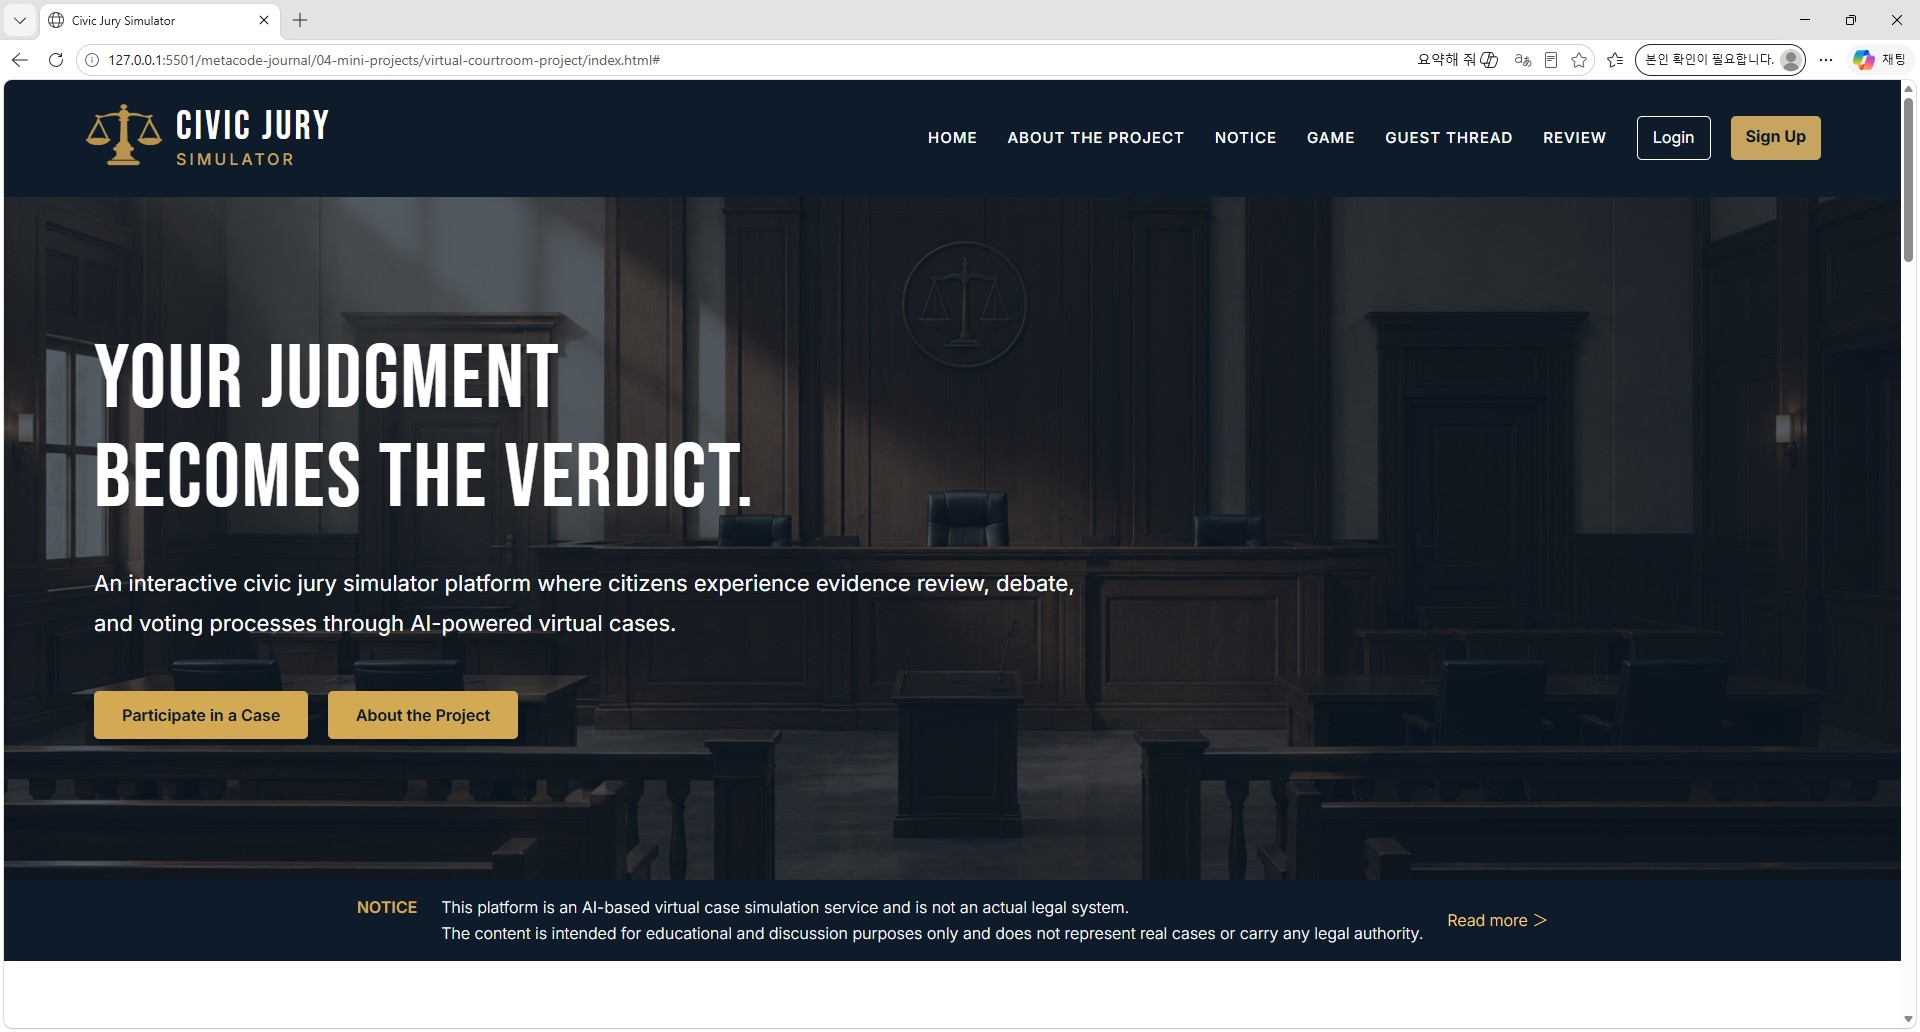
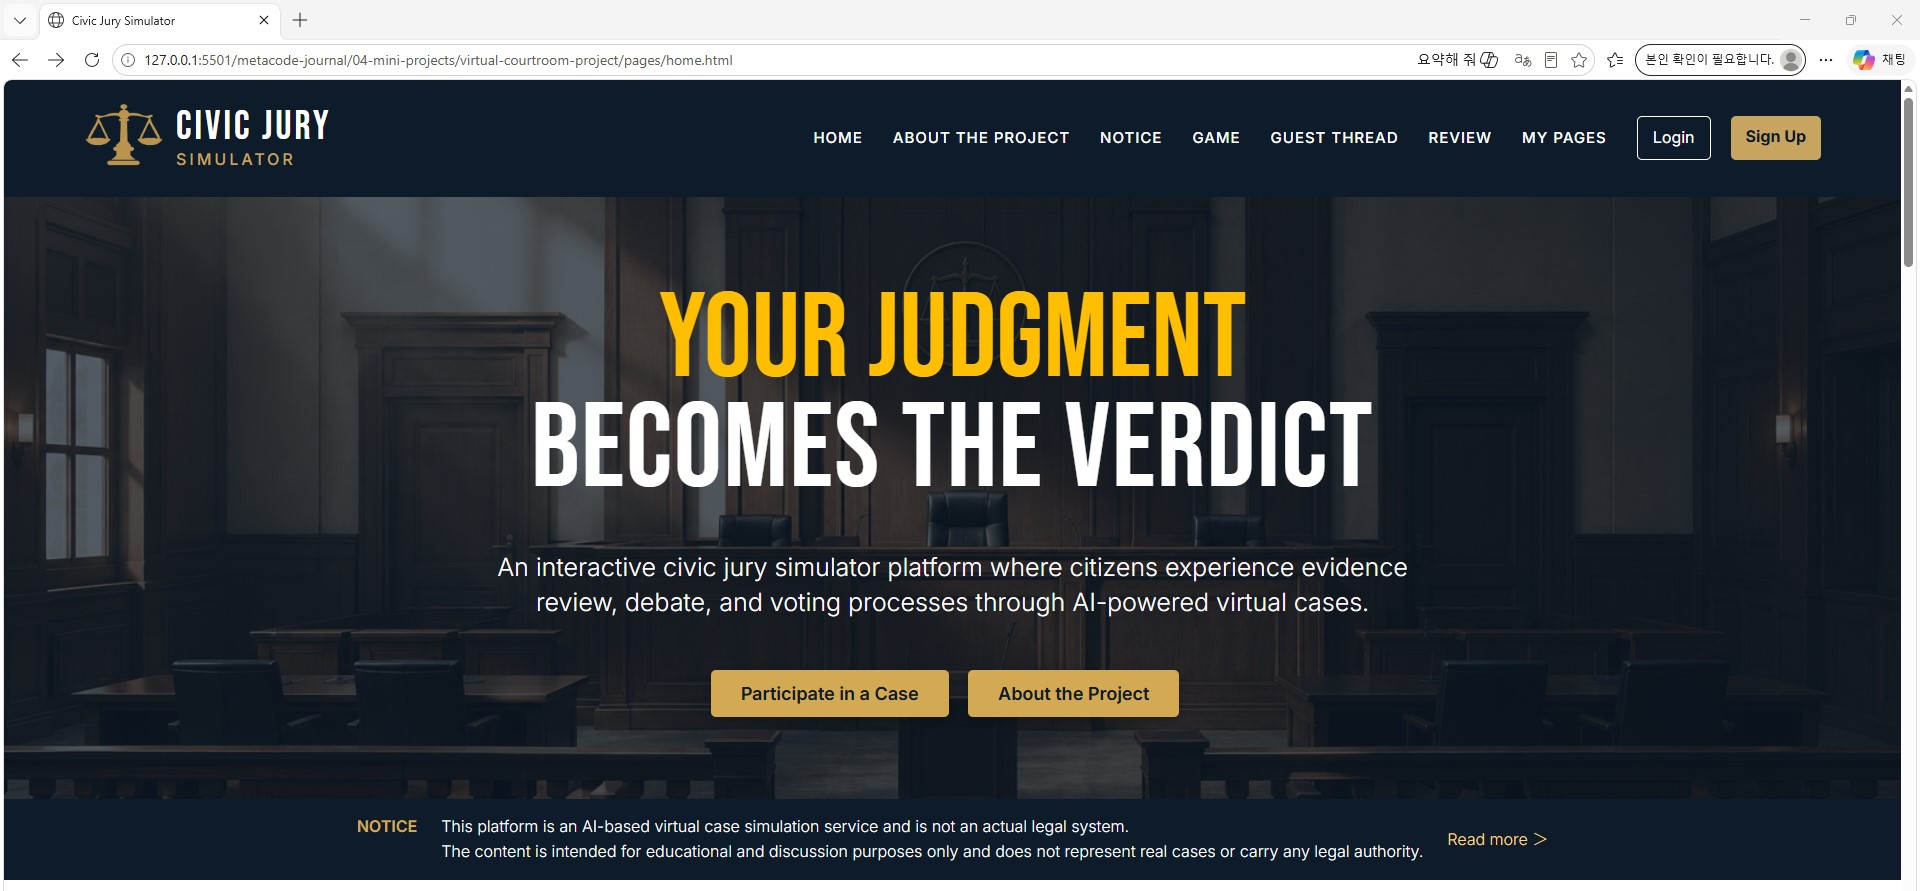
20260523
20260523

diff --git a/04-mini-projects/virtual-courtroom-project/pages/about-the-project.html b/04-mini-projects/virtual-courtroom-project/pages/about-the-project.html
@@ -40,7 +40,7 @@
             <ul class="menu">
                 <li><a href="../pages/home.html">Home</a></li>
                 <li><a href="../pages/about-the-project.html">About the Project</a></li>
-                <li><a href="#">Notice</a></li>
+                <li><a href="../pages/notice.html">Notice</a></li>
                 <li><a href="#">Game</a></li>
                 <li><a href="#">Guest Thread</a></li>
                 <li class="menu-left"><a href="#">Review</a></li>
@@ -66,7 +66,7 @@
             <br>
 
             <h1>Your choices can change</h1>
-            <h2>the outcome of a case.</h2>
+            <h2>the outcome of a case</h2>
 
             <p>
                 At the many crossroads of life, what would you do if you were suddenly faced with a criminal accusation or legal dispute?<br>
@@ -123,15 +123,13 @@
             <br>
             <h3>Identity of the Website</h3>
             <p>
-                This website is an interactive experiential platform created as both a research archive and a digital exhibition space. At the same time, it functions as a personal brand portfolio website.<br><br>
-                The platform is designed around two types of users: operators and guests.<br><br>
-                When visitors first enter the website, I wanted them to feel: “This looks interesting.” / “I want to participate.” / “This could become a meaningful experience.”<br><br>
-                For this reason, I aimed to create a website that combines immersion, professionalism, and interactive storytelling.<br><br>
+                This website is an interactive experiential platform created as both a research archive and a digital exhibition space. At the same time, it functions as a personal brand portfolio website. The platform is designed around two types of users: operators and guests.<br><br>
+                When visitors first enter the website, I wanted them to feel: “This looks interesting.” / “I want to participate.” / “This could become a meaningful experience.” For this reason, I aimed to create a website that combines immersion, professionalism, and interactive storytelling.<br><br>
                 I wanted the rules of the game and the platform’s high degree of freedom to become attractive experiences for users visiting the website. Through participation-driven systems and interactive structures, I hoped to encourage users to remain engaged for longer periods of time while increasing their curiosity and anticipation regarding the unfolding events within the simulator.
             </p>
         </div>
 
 
-        
+
 </body>
 </html>

diff --git a/04-mini-projects/virtual-courtroom-project/pages/home.html b/04-mini-projects/virtual-courtroom-project/pages/home.html
@@ -40,7 +40,7 @@
             <ul class="menu">
                 <li><a href="../pages/home.html">Home</a></li>
                 <li><a href="../pages/about-the-project.html">About the Project</a></li>
-                <li><a href="#">Notice</a></li>
+                <li><a href="../pages/notice.html">Notice</a></li>
                 <li><a href="#">Game</a></li>
                 <li><a href="#">Guest Thread</a></li>
                 <li class="menu-left"><a href="#">Review</a></li>
@@ -60,13 +60,13 @@
 
     <section id="home" class="hero">
         <div class="hero-content">
-            <h2>Your judgment<br>
-                becomes the verdict.
-            </h2>
+            <h1>Your judgment</h1>
+            <h2>becomes the verdict</h2>
+            
 
             <p>
-                An interactive civic jury simulator platform where citizens experience evidence review, debate,<br>
-                and voting processes through AI-powered virtual cases.
+                An interactive civic jury simulator platform where citizens experience evidence<br>
+                review, debate, and voting processes through AI-powered virtual cases.
             </p>
 
             <a href="../pages/game-case.html" class="button-case">Participate in a Case</a>
@@ -83,7 +83,7 @@
             <p class="nt1">NOTICE</p>
             <p class="nt2">This platform is an AI-based virtual case simulation service and is not an actual legal system.<br>
                 The content is intended for educational and discussion purposes only and does not represent real cases or carry any legal authority.</p>
-            <a href="" class="nt3">Read more ＞</a>
+            <a href="../pages/notice.html" class="nt3">Read more ＞</a>
         </div>
     </section>
     
@@ -585,7 +585,7 @@
 
                 <div>
                     <h4>Services</h4>
-                    <p>About the Project</p>
+                    <p><a href="../pages/about-the-project.html">About the Project</a></p>
                     <p>How to Use</p>
                     <p>FAQ</p>
                 </div>
@@ -599,7 +599,7 @@
 
                 <div>
                     <h4>Support</h4>
-                    <p>Announcements</p>
+                    <p><a href="../pages/notice.html">Announcements</a></p>
                     <p>Contact Us</p>
                     <p>Terms of Service</p>
                     <p>Privacy Policy</p>

diff --git a/04-mini-projects/virtual-courtroom-project/css/home.css b/04-mini-projects/virtual-courtroom-project/css/home.css
@@ -9,6 +9,7 @@
     margin:0;
     padding:0;
     box-sizing:border-box;
+    cursor:pointer;
 }
 
 
@@ -21,7 +22,7 @@ body {
     line-height:1.6;
     
     background:#ffffff;
-    color:#111111;
+    color:#111111;  
 }
 
 
@@ -195,13 +196,13 @@ text-transform:uppercase;
 
 .hero{
 white-space: nowrap;
-min-height: 700px;
-margin-top: 100px;
+min-height: 500px;
+margin-top: 110px;
 color: #ffffff;
 display: flex;
 flex-direction: column;
 justify-content: center;
-align-items: flex-start;
+align-items: center;
 text-align: left;
 padding: 90px;
 background:
@@ -214,7 +215,7 @@ background-attachment: fixed;
 }
 
 .hero-content{
-max-width:600px;
+text-align:center;
 }
 
 .hero img {
@@ -223,25 +224,35 @@ height: auto;
 margin-right: 12px;
 }
 
+.hero h1{
+font-family:'Bebas Neue', sans-serif;
+font-size:120px;
+color:#ffbf00;
+line-height:1;
+margin-bottom:-10px;
+font-weight:400;
+text-transform:uppercase;
+}
+
 .hero h2{
 font-family:'Bebas Neue', sans-serif;
-font-size:90px;
+font-size:120px;
 color:#ffffff;
-line-height:1.1;
+line-height:1;
 margin-bottom:30px;
-letter-spacing:2px;
+letter-spacing:1.5px;
 font-weight:400;
 text-transform:uppercase;
 }
 
 .hero p{
-margin-top:35px;
+margin-top:40px;
 margin-bottom:60px;
-font-size:22px;
+font-size:25px;
 color:#ffffff;
-line-height:1.8;
+line-height:1.4;
 font-family:'Inter', sans-serif;
-font-weight:400;
+font-weight:300;
 }
 
 
@@ -259,14 +270,13 @@ transform:translateY(-2px);
 .button-introduction{
 margin-top:20px;
 margin-right:15px;
-padding:14px 28px;
+padding:13px 30px;
 background:#d4a954;
 border:none;
 border-radius:5px;
 color:#0d1b2a;
-font-size:16px;
+font-size:18px;
 font-weight:600;
-cursor:pointer;
 text-decoration:none;
 transition:all 0.3s ease;
 box-shadow:0 4px 12px rgba(0,0,0,0.2);
@@ -1449,6 +1459,7 @@ font-weight:500;
     gap:100px;
     margin-top: 10px;
     margin-left: 70px;
+   
 }
 
 .footer-menu h4{
@@ -1457,11 +1468,14 @@ font-weight:500;
     letter-spacing:1.5px;
     font-weight:400;
     text-transform:uppercase;
+
 }
 
-.footer-menu p{
+.footer-menu p, .footer-menu a{
     margin-bottom:10px;
     color:#cfcfcf;
+    text-decoration: none;
+    text-transform: uppercase;
 }
 
 .menu-inquiry{

diff --git a/04-mini-projects/virtual-courtroom-project/pages/notice.html b/04-mini-projects/virtual-courtroom-project/pages/notice.html
@@ -1,0 +1,59 @@
+<!DOCTYPE html>
+<html lang="en">
+<head>
+
+    <meta charset="UTF-8">
+    <meta name="viewport" content="width=device-width, initial-scale=1.0">
+    <title>Civic Jury Simulator</title>
+
+    <meta name="description" content="시민 배심 시뮬레이터 프로젝트의 제작 이유에 대한 설명">
+    <meta name="author" content="Gi-So-Jeong">
+
+    <link rel="preconnect" href="https://fonts.googleapis.com">
+    <link rel="preconnect" href="https://fonts.gstatic.com" crossorigin>
+
+    <link href="https://fonts.googleapis.com/css2?family=Playfair+Display:wght@500;700&display=swap" rel="stylesheet">
+    <link href="https://fonts.googleapis.com/css2?family=Cormorant+Garamond:wght@500;600;700&family=Inter:wght@400;500;600;700&display=swap" rel="stylesheet">
+
+    <link rel="stylesheet" href="../css/home.css">
+    <link rel="stylesheet" href="../css/about-the-project.css">
+</head>
+
+<body>
+
+
+
+    <!-- nav bar -->
+
+    <header>
+        <nav>
+            <h1 class="logo">
+                <a href="../pages/home.html" class="logo-link">
+                    <img src="../assets/img/logo.png" alt="logo"/>
+                    <span class="logo-text">
+                            <strong class="logo-title">Civic Jury</strong><br>
+                            <small class="logo-subtitle">Simulator</small>
+                    </span>
+                </a>
+            </h1>
+
+            <ul class="menu">
+                <li><a href="../pages/home.html">Home</a></li>
+                <li><a href="../pages/about-the-project.html">About the Project</a></li>
+                <li><a href="../pages/notice.html">Notice</a></li>
+                <li><a href="#">Game</a></li>
+                <li><a href="#">Guest Thread</a></li>
+                <li class="menu-left"><a href="#">Review</a></li>
+                <li><a href="#">My pages</a></li>
+            </ul>
+
+            <div class="auth-buttons">
+                <a href="../pages/login.html" class="login-btn">Login</a>
+                <a href="../pages/signup.html" class="signup-btn"><strong>Sign Up</strong></a>
+            </div>
+        </nav>
+    </header>
+
+
+</body>
+</html>

diff --git a/04-mini-projects/virtual-courtroom-project/css/about-the-project.css b/04-mini-projects/virtual-courtroom-project/css/about-the-project.css
@@ -69,7 +69,7 @@ font-weight:400;
 /* about-the-project-intent */
 
 .about-the-project-intent{
-    max-width: 1000px;
+    max-width: 1100px;
     text-align: justify;
     align-items: center;
     margin: 0 auto;

diff --git a/04-mini-projects/virtual-courtroom-project/README.md b/04-mini-projects/virtual-courtroom-project/README.md
@@ -34,7 +34,7 @@ The goal of this project is not to create a real legal service, but to design a 
 ```plaintext
 HOME - Sign Up / Login / Notification Center
 │
-├── About the Project - Project Vision and Purpose / Introduction and Objectives / Creator Introduction / Development Process Archive
+├── About the Project - Project Vision and Purpose / Introduction and Objectives
 │
 ├── Notice
 │     │
@@ -92,10 +92,12 @@ virtual-courtroom-project/
 │     └── readme
 ├── css
 │     ├── home.css
-│     └── about-the-project.css
+│     ├── about-the-project.css
+│     └── notice.css
 ├── js
 ├── pages
 │     ├── home.html
-│     └── about-the-project.html
+│     ├── about-the-project.html
+│     └── notice.html
 └── README.md
 ```
